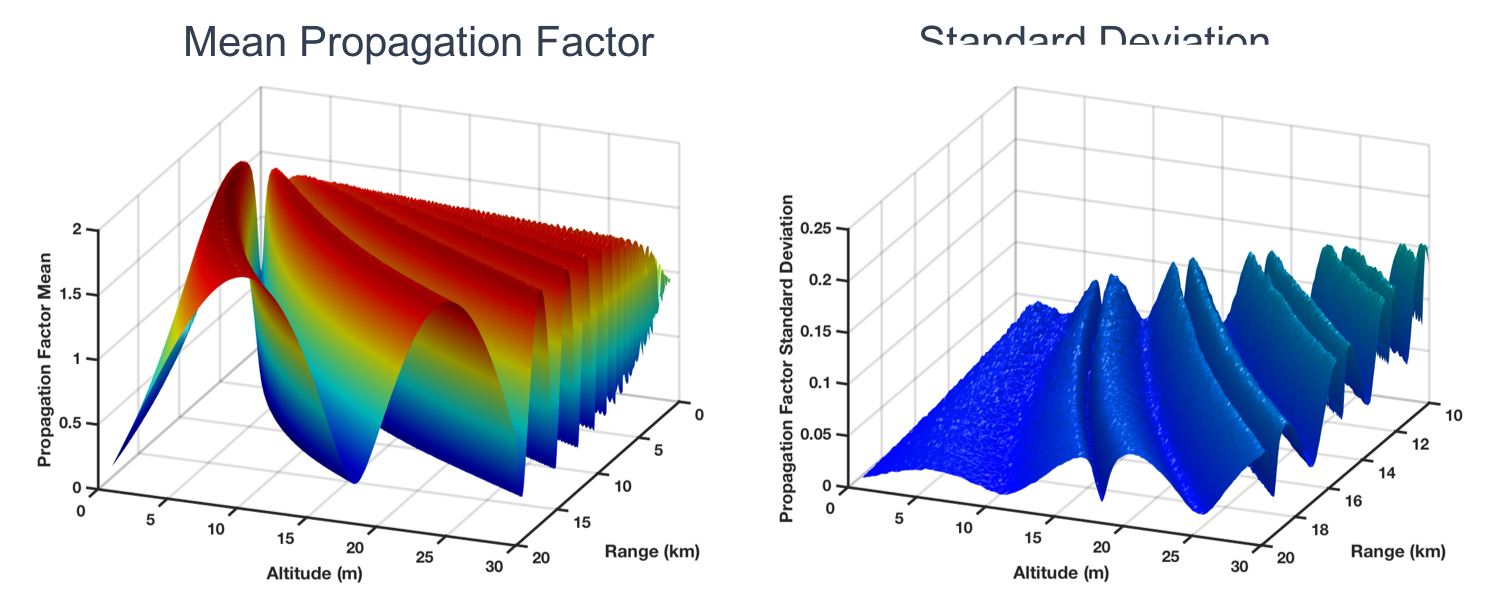
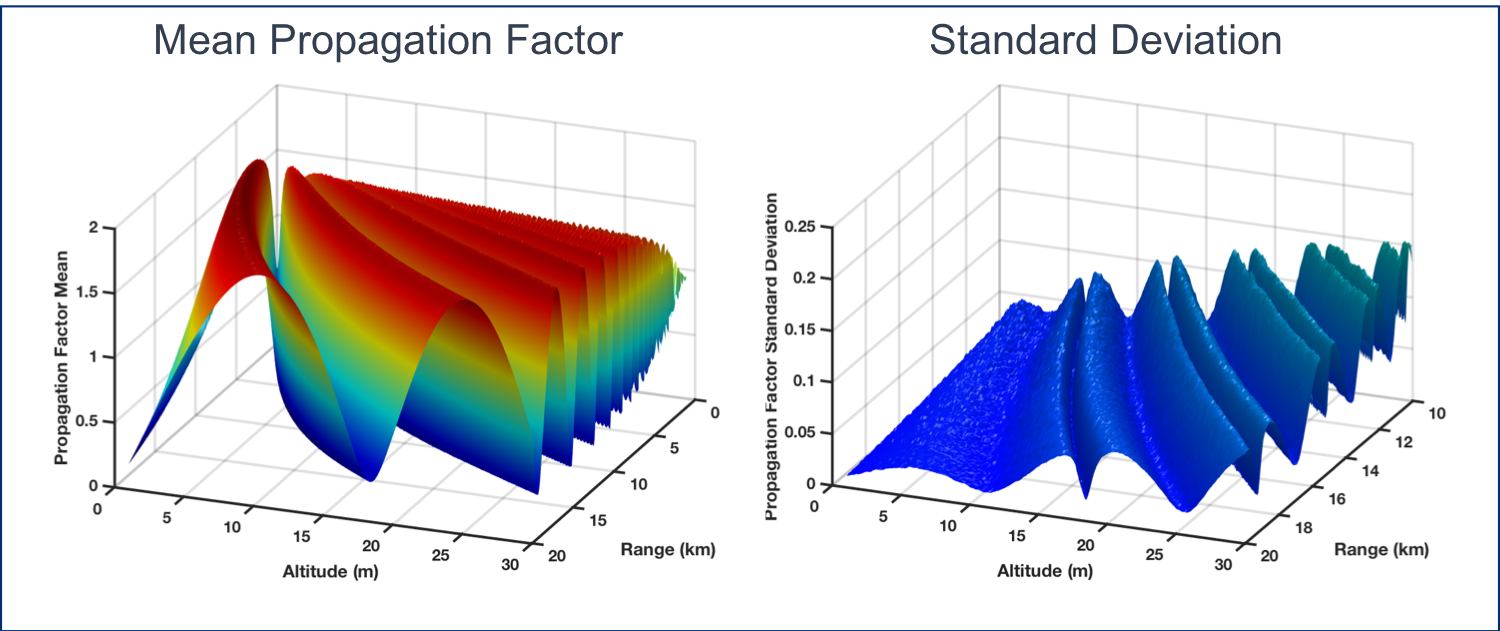
nearly final editing pass

diff --git a/src/amplitude_statistics.tex b/src/amplitude_statistics.tex
@@ -75,6 +75,8 @@ This equation matches the observation with $n\approx 10$ for the mean values and
 \end{figure}
 \renewcommand{\baselinestretch}{2} \small\normalsize
 
+In order to reduce the sampling constraints and run the Monte Carlo study in a reasonable amount of time, the temporal frequency of interest was changed from 35 GHz to 10 GHz.
+
 \subsection{Monte Carlo Run Methodology}
 The data set of propagation factors were generated by creating a random sea surface for a given wind speed and direction, and then numerically propagating using TEMPER. This sequence was repeated for 500 iterations with a different set of random variables for each sea surface.
 
@@ -179,7 +181,7 @@ The mean and standard deviation with a 5 m/s wind speed and a $0^\circ$ wind dir
 
 \begin{figure}[H]
   \begin{center}
-\includegraphics[width=4in]{../media/multistatic/std_atmos_results.png}
+\includegraphics[width=5.5in]{../media/multistatic/std_atmos_results.png}
   \end{center}
   \renewcommand{\baselinestretch}{1} \small\normalsize
   \begin{quote}
@@ -190,7 +192,7 @@ The mean and standard deviation with a 5 m/s wind speed and a $0^\circ$ wind dir
 
 \begin{figure}[H]
   \begin{center}
-\includegraphics[width=4in]{../media/multistatic/duct_results.png}
+\includegraphics[width=5.5in]{../media/multistatic/duct_results.png}
   \end{center}
   \renewcommand{\baselinestretch}{1} \small\normalsize
   \begin{quote}
@@ -199,7 +201,7 @@ The mean and standard deviation with a 5 m/s wind speed and a $0^\circ$ wind dir
 \end{figure}
 \renewcommand{\baselinestretch}{2} \small\normalsize
 
-In both of these cases, we see that the standard deviation has deep nulls that are co-aligned with nulls in the mean and shallower nulls that are co-aligned with peaks in the mean. These results make sense if we think of propagation of a bundle of rays; at the peaks and nulls in the mean, the rays are all either strongly coherent (peak) or strongly anti-coherent (null). At these extremes, there is little phase variation between the waves and less room for variation in received power.
+In both of these cases, we see that the standard deviation has deep nulls that are co-aligned with nulls in the mean and shallower nulls that are co-aligned with peaks in the mean. These results make sense if we think of propagation of a bundle of rays; at the peaks and nulls in the mean, the rays are all either strongly coherent (peak) or strongly anti-coherent (null). At these extremes, there is little phase variation between the waves and less room for variation in received power. This result also indicates that the standard deviation oscillates at twice the rate of the mean value.
 
 \subsection{Diffractive Phase Shift}
 Figure \ref{stat_fig:2zz} shows the mean propagation factor vs. altitude at a constant range (20 km) for various wind speeds and Figure \ref{stat_fig:2zzz} shows the mean propagation factor vs. altitude at a constant range (20 km) for various wind direction angles. These plots demonstrate there is a diffractive phase shift incurred when propagating over a numerical surface instead of a flat surface with the Miller-Brown approximation.
@@ -215,7 +217,7 @@ Figure \ref{stat_fig:2zz} shows the mean propagation factor vs. altitude at a co
 \end{figure}
 \renewcommand{\baselinestretch}{2} \small\normalsize
 
-As shown in Figure \ref{stat_fig:2zz}, increasing the wind speed reduces the amplitude of the mean propagation factor and shifts the phase of the multipath peaks and nulls upward in altitude. The amplitude reduction is expected because higher wind speeds create sea surfaces with more energy which turn means less RF energy is reflected in the forward direction.
+As shown in Figure \ref{stat_fig:2zz}, increasing the wind speed reduces the amplitude of the mean propagation factor and shifts the phase of the multipath peaks and nulls upward in altitude. The amplitude reduction is expected because higher wind speeds create sea surfaces with more energy which in turn means less RF energy is reflected in the forward direction.
 
 \begin{figure}[H]
   \begin{center}
@@ -233,9 +235,9 @@ As shown in Figure \ref{stat_fig:2zzz}, decreasing the wind direction also shift
 \subsection{PDF Fitting Results}
 Propagation over the open ocean should result in a system with fairly high losses, so we expect the PDFs to be normally distributed \cite{yeh_first_principles} \cite{yeh_fading}. 
 
+\subsubsection{Example Fitting Metrics}
 Figure \ref{stat_fig:4} shows the propagation factor fit at constant range (20 km) at 10 m and 30 m altitude to demonstrate fitting around both a multipath peak and a multipath null. The standard deviation in both cases shown is identical ($\sigma = 0.176$) and in general is very similar for fits made at a constant range but different altitudes.
 
-\subsubsection{Example Fitting Metrics}
 \begin{figure}[H]
   \begin{center}
 \includegraphics[width=4in]{../media/statistics/constant_range_fit.png}
@@ -247,7 +249,7 @@ Figure \ref{stat_fig:4} shows the propagation factor fit at constant range (20 k
 \end{figure}
 \renewcommand{\baselinestretch}{2} \small\normalsize
 
-Figure \ref{stat_fig:5} shows the propagation factor fit at constant altitude (10 m) at 10 km and 15 km range, again to demonstrate fitting around both a multipath peak and a multipath null. The standard deviation is no longer the same ($\sigma_{10} = 0.223$ while $\sigma_{15} = 0.188$). In general, the standard deviation is not similar for fits made at a constant altitude but different ranges.
+Figure \ref{stat_fig:5} shows the propagation factor fit at constant altitude (10 m) at 10 km and 15 km range, again to demonstrate fitting around both a multipath peak and a multipath null. The standard deviation is no longer the same ($\sigma_{10} = 0.223$ while $\sigma_{15} = 0.188$). In general, the standard deviation is not similar for fits made at a constant altitude but different ranges. This indicates range has a stronger impact than altitude.
 
 \begin{figure}[H]
   \begin{center}

diff --git a/src/random_matrix_theory.tex b/src/random_matrix_theory.tex
@@ -7,12 +7,23 @@ Since then, RMT has become extremely useful in characterizing chaotic systems th
 \subsection{Wave Chaotic Systems}
 The wave equation is linear, so solutions can not be chaotic. However, in the semi-classical limit where the wavelength is much smaller than the characteristic length scale ($\lambda << L$), these solutions can be described by rays with chaotic trajectories. This is also known as the random plane wave hypothesis where we can treat the chaotic propagation problem as a random superposition of plane waves.
 
-For the purposes of this work, the propagation has Time Reversal Symmetry (TRS), so the probability distribution of the Hamiltonian will be invariant under orthogonal transformations, $P(H) = P(O^THO)$ for any orthogonal matrix $O$ \cite{ott_chaos}. This is referred to as the Gaussian Orthogonal Ensemble (GOE) case. Because the matrix $O$ is orthogonal, the elements of the random matrix will be real, independent, and identically distributed Gaussian random variables with the variance of the diagonal elements equal to twice the variance of the off-diagonal elements.
+For the purposes of this work, the propagation has Time Reversal Symmetry (TRS), so the probability distribution of the Hamiltonian will be invariant under orthogonal transformations, $P(H) = P(O^THO)$ for any orthogonal matrix $O$ \cite{ott_chaos}. This is referred to as the Gaussian Orthogonal Ensemble (GOE) case. Because the matrix $O$ is orthogonal, the elements of the random matrix will be real, independent, and identically distributed (IID) Gaussian random variables with the standard deviation of the diagonal elements equal to twice the standard deviation of the off-diagonal elements.
+
+A simple method to generate a random matrix, $\textbf{M}$, following a GOE distribution is to first generate a matrix, $\textbf{A}$, whose elements are IID zero mean Gaussian random variables with unit standard deviation. The matrix $\textbf{M}$ is then given by
+
+\begin{equation}
+\textbf{M} = \frac{1}{2}\left(\textbf{A} + \textbf{A}^T \right)
+\label{rmt_eq:000}
+\end{equation}
+\renewcommand{\baselinestretch}{2} \small\normalsize
 
 Wave chaotic systems have both universal and system specific properties. The system specific features are due to the short orbit trajectories (the paths with few bounces between the ports) and the universal features are due to the chaotic nature of the system itself \cite{bohigas}. RMT works extremely well at predicting the statistical properties of the universal fluctuations; however, short orbit trajectories have a significant impact on the overall scattering statistics and should be included \cite{hart_so} \cite{yeh_universal}. One such model that includes both universal and system specific features is the Random Coupling Model (RCM), which normalizes the impedance matrix by the system specific impedance to separate the universal and system specific features  \cite{zheng_single} \cite{zheng_multiple} \cite{hemmady_review} \cite{gradoni_review}.
 
+One of the primary contributions of the RCM is that it allows the overlap integral which describes the interaction between the eigenmodes and current shape profile to be represented through the radiation impedance of an antenna coupled to the port \cite{hart_time_domain} \cite{zheng_single}.
+
 \subsection{Multi-static Configuration}
-The scattering matrix, $S$, contains all the information for the various propagation paths through the system with each transmitter and receiver considered as a port. This matrix then determines the relationship between the output voltages, $\textbf{V}^o$, and the input voltages, $\textbf{V}^i$ \cite{pozar_microwave}.
+The scattering matrix, $\textbf{S}$, contains all the information for the various propagation paths through the system with each transmitter and receiver considered as a port. This matrix then determines the relationship between the output voltages, $\textbf{V}^o$, and the input voltages, $\textbf{V}^i$ \cite{pozar_microwave}.
+
 \begin{equation}
 \textbf{V}^o = \textbf{S} \textbf{V}^i
 \label{rmt_eq:0}
@@ -56,5 +67,3 @@ The scattering matrix approach captures the universal fluctuations from the unde
 \end{equation}
 \renewcommand{\baselinestretch}{2} \small\normalsize
 Here $\textbf{Z}_o$ is a diagonal matrix that captures the characteristic impedance of transmission lines connected to the ports.
-
-One of the primary contributions of the RCM is that it allows the overlap integral which describes the interaction between the eigenmodes and current shape profile to be represented through the radiation impedance of an antenna coupled to the port \cite{hart_time_domain} \cite{zheng_single}.

diff --git a/src/RF_environmental_impacts.tex b/src/RF_environmental_impacts.tex
@@ -68,7 +68,7 @@ The grazing angle, $\chi$, is the angle from the local horizontal plane at the t
 In the flat earth case, the grazing and depression angles are equal. The curvature of the earth changes the local tangent plane reference, so they are not equal in the case of a spherical or ellipsoidal earth.
   
 \subsubsection{RADAR Horizon}
-The curvature of the earth puts an upper limit on the distance an electromagnetic wave can travel before intercepting the earth. The range to the horizon, $R_h$, is given by Equation \ref{env_eq:3}. Slant ranges greater than this distance will be clipped by the earth and not reach the target unless anomalous propagation conditions (ducting) are present.
+The curvature of the earth puts an upper limit on the distance an electromagnetic wave can travel before intercepting the earth. The range to the horizon, $R_h$, is given by Equation \ref{env_eq:3}. Slant ranges greater than this distance will be clipped by the earth and not reach the target unless anomalous propagation conditions (such as ducting) are present.
 
   \begin{equation}
   \label{env_eq:3}
@@ -177,10 +177,10 @@ The smooth reflection coefficient depends on the polarization of the incident wa
 The total reflection coefficient, $\Gamma_t$ is then the product of the rough and smooth reflection coefficients, $\Gamma_t = \rho\Gamma_h$ or $\Gamma_t = \rho\Gamma_v$.
 
 \subsection{Clutter}
-Clutter is the backscattered signal from the sea surface and its signal strength can be found from the RADAR range equation using the product of the backscatter cross section, $\sigma_M^0$ and the clutter cell area, $A_c$ as the target RCS. The area will depend on whether the signal is beam limited or pulse limited. The Signal to Clutter Ratio (SCR) is the ratio of the power received from the signal to the power received from clutter and is a good indicator of overall performance.
+Clutter is the backscattered signal from the sea surface and its signal strength can be found from the RADAR range equation using the product of the backscatter cross section, $\sigma_M^0$, and the clutter cell area, $A_c$, as the target RCS. The area will depend on whether the signal is beam limited or pulse limited. The Signal to Clutter Ratio (SCR) is the ratio of the power received from the signal to the power received from clutter and is a good indicator of overall performance.
 
 \subsubsection{NRL Model for $\sigma_M^0$}
-There are many models for estimating the backscatter cross section at various sea states \cite{blake_radar} \cite{richards_radar} \cite{nathanson_radar}. In 2012, an empirical model was developed by NRL that minimized differences with the extensive existing experimental databases \cite{gregers-hansen_clutter} and which will be presented here. Equation \ref{env_eq:7a} provides the model for $\sigma^0$ where $f$ is the radar frequency in GHz, $SS$ is the sea state, and $\Psi$ is the grazing angle in degrees. Table \ref{env_tab:0} lists the various constants used in the equation for both horizontal and vertical polarization.
+There are many models for estimating the backscatter cross section at various sea states \cite{blake_radar} \cite{richards_radar} \cite{nathanson_radar}. In 2012, an empirical model was developed by NRL that minimized differences with the extensive existing experimental databases \cite{gregers-hansen_clutter} and which will be presented here. Equation \ref{env_eq:7a} provides the model for $\sigma_M^0$ where $f$ is the radar frequency in GHz, $SS$ is the sea state, and $\Psi$ is the grazing angle in degrees. Table \ref{env_tab:0} lists the various constants used in the equation for both horizontal and vertical polarization.
 
 \begin{equation}
 \begin{aligned}

diff --git a/src/introduction.tex b/src/introduction.tex
@@ -4,7 +4,7 @@ Analysis of RADAR systems in maritime environments is complicated by the fact th
 When we look at cases where the transmitter and receiver are not colocated, we have a bistatic configuration and analyzing performance becomes even more difficult \cite{willis_bistatic}. We cannot leverate reciprocity as the paths are no longer constant, and the effects of multipath and clutter are often skewed due to geometric differences.  In addition, the receiver observes the target from a different aspect angle than it was illuminated with, resulting in a different radiation pattern. With multiple receivers or transmitters, the configuration is termed multistatic as there are multiple bistatic elements.
 
 \subsection{Objective}
-The primary objective of this work is to evaluate the performance of multistatic Radio Frequency (RF) sensor networks through 2 aims: 1) demonstrate that Random Matrix Theory (RMT) allows prediction of the signal statistics and 2) investigate contributions from multipath and clutter to characterize potential engagement geometries. 
+The primary objective of this work is to evaluate the performance of multistatic Radio Frequency (RF) sensor networks through 2 aims: 1) demonstrate that Random Matrix Theory (RMT) allows prediction of the signal statistics; and 2) investigate contributions from multipath and clutter to characterize potential engagement geometries. 
 
 Aim 1 will be accomplished in three phases. First, the ocean surface will be modeled to ensure that the appropriate sea wave statistics are captured in both the down range and cross range directions. Second, a Monte Carlo study will be performed to generate signal statistics. This study will be executed by generating a series of sea surfaces and then numerically propagating a signal through a Parabolic Wave Equation (PWE) solver. Finally, RMT will be used to generate a statistical model that encompasses the results.
 
@@ -25,13 +25,13 @@ An example multistatic RF sensor network in a maritime environment is shown in F
 \renewcommand{\baselinestretch}{2} \small\normalsize
 
 \subsubsection{Sources of Uncertainty}
-There are 3 primary sources for randomness in propagating through a maritime environment: the configuration of the target ship, the refractivity of the atmosphere, and the sea surface.
+There are 3 primary sources for randomness in propagating through a maritime environment: 1) the configuration of the target ship; 2) the refractivity of the atmosphere; and 3) the sea surface.
 
 The configuration of the target ship drives the RADAR Cross Section (RCS). As shown in Figure \ref{rmt_fig:1}, the RCS signature is complicated and highly aspect dependent. 
 
 \begin{figure}[H]
   \begin{center}
-\includegraphics[width=4in]{../media/multistatic/shipconfig.png}
+\includegraphics[width=4.5in]{../media/multistatic/shipconfig.png}
   \end{center}
   \renewcommand{\baselinestretch}{1} \small\normalsize
   \begin{quote}

diff --git a/src/bistatic_clutter.tex b/src/bistatic_clutter.tex
@@ -1,9 +1,9 @@
 \section{Bistatic Clutter Impacts}
 
-As previously discussed, the Signal to Clutter Ratio (SCR) is a valuable metric that determines the observability of a target against the background. Clutter is very well understood for monostatic geometries but still an active area of research for bistatic geometries.
+As previously discussed, the SCR is a valuable metric that determines the observability of a target against the background. Clutter is very well understood for monostatic geometries but still an active area of research for bistatic geometries.
 
 \subsection {Bistatic Clutter Estimation}
-Because the RCS varies by target and both signal and clutter are captured under the same conditions, we can focus on the Clutter Cross Section (CCS) to get a relative sense of how background clutter relates to bistatic RADAR.
+Because the RCS varies by target and both signal and clutter are captured under the same conditions, we can focus on the clutter cross section to get a relative sense of how background clutter relates to bistatic RADAR.
 
 We can use Long's model \cite{griffiths_bistatic_clutter} to determine the cross range clutter backscatter term, $\sigma_{Mx}^0$. This term is dependent on wind speed, $v_w$ and wind direction, $\phi_w$.
 \begin{equation}
@@ -19,7 +19,7 @@ We can then use $\sigma_{Mx}^0$ to find the bistatic clutter backscatter strengt
 \end{equation}
 \renewcommand{\baselinestretch}{2} \small\normalsize
 
-Here, $\theta_1$ is the grazing angle relative to the receiver, $\theta_2$ is the grazing angle relative to the transmitter, $phi$ is the azimuth angle between the receiver and transmitter, $\sigma_M^0$ is the monostatic clutter backscatter strength. In addition, $k$, $m$, and $n$ are model "fudge-factors" that must all be positive. The $\cos(\phi)$ term captures the downrange component and the $\sin(\phi)$ term captures the cross range component.
+Here, $\theta_1$ is the grazing angle relative to the receiver, $\theta_2$ is the grazing angle relative to the transmitter, $\phi$ is the azimuth angle between the receiver and transmitter, $\sigma_M^0$ is the monostatic clutter backscatter strength. In addition, $k$, $m$, and $n$ are model "fudge-factors" that must all be positive. The $\cos(\phi)$ term captures the downrange component and the $\sin(\phi)$ term captures the cross range component.
 
 The NRL model for downrange clutter backscatter averages the backscatter responses for all wind directions and therefore effects of wind direction are not described in the model. Like the NRL model, Long's model for crossrange clutter backscatter is based on empirical data relating sea clutter to polarization and wind direction, however Long's model averages over a range of sea states rather than resolving it in the model. As a result, the inherent variance in the combined model is handled by fudge factors to adapt to environments of a given sea state and wind direction.
 

diff --git a/src/prop_model.tex b/src/prop_model.tex
@@ -26,7 +26,7 @@ F_p =e^{-jk_oL_1}+\Gamma_1 e^{-jk_oL_m} \sum_{l=-\infty}^{\infty}J_l(\sigma)e^{j
 \end{equation}
 \renewcommand{\baselinestretch}{2} \small\normalsize
 
-The propagation factors for the cylindrical wave case are given as \cite{frazier_green}:
+\noindent The propagation factors for the cylindrical wave case are given as \cite{frazier_green}:
 
 \begin{equation}
 F_p =e^{-jk_oL_1}+\Gamma_1\sqrt{\frac{L_1}{L_m}} e^{-jk_oL_m} \sum_{l=-\infty}^{\infty}J_l(\sigma)e^{j\phi_l}
@@ -34,7 +34,7 @@ F_p =e^{-jk_oL_1}+\Gamma_1\sqrt{\frac{L_1}{L_m}} e^{-jk_oL_m} \sum_{l=-\infty}^{
 \end{equation}
 \renewcommand{\baselinestretch}{2} \small\normalsize
 
-The intermediate variables for Equations \ref{prop_eq:1} and \ref{prop_eq:2} are given in Equation \ref{prop_eq:3}.
+\noindent The intermediate variables for Equations \ref{prop_eq:1} and \ref{prop_eq:2} are given in Equation \ref{prop_eq:3}.
 
 \begin{equation}
 \begin{gathered}
@@ -48,7 +48,7 @@ L_0''=\frac{(h_1+h_2)^4}{h_1h_2L^3} \\
 \renewcommand{\baselinestretch}{2} \small\normalsize
 
 \subsection{Numerical Approach}
-The analytical approach simplifies the problem by treating diffraction from the sea surface in plane so that integration is done downrange. This requires additional approximations and constraints, so a more accurate is to integrate in altitude and march the solution in range. This approach is well suited to the Fourier Split-Step technique given by \cite{frazier_green} 
+The analytical approach simplifies the problem by treating diffraction from the sea surface in plane so that integration is done downrange. This requires additional approximations and constraints, so a more accurate method is to integrate in altitude and march the solution in range. This approach is well suited to the Fourier Split-Step technique given by \cite{frazier_green} as
 
 \begin{equation}
 A(x,z) = \exp\left[-j\frac{k_pm}{2}\Delta x\right]\mathcal{F}^{-1}\left\{\exp\left[j\frac{k_z^2}{2k_p}\Delta x \right]\hat{A}(x_o,k_z) \right\}

diff --git a/src/Abbreviations.tex b/src/Abbreviations.tex
@@ -6,10 +6,10 @@
 \small\normalsize
 
 \begin{supertabular}{ll}
-CCS & Clutter Cross Section \\
 CPI & Coherent Processing Interval \\
 GOE & Gaussian Orthogonal Ensemble \\
 PDF & Probability Density Function \\
+IID & Independent and Identically Distributed \\
 PWE & Parabolic Wave Equation \\
 RADAR & Radio Detection And Ranging\\
 RCS & RADAR Cross Section \\
@@ -18,6 +18,7 @@ RCM & Random Coupling Model \\
 RMT & Random Matrix Theory \\
 SCR & Signal to Clutter Ratio \\
 SNR & Signal to Noise Ratio\\
+SS & Sea State \\
 TEMPER & Tropospheric Electromagnetic Parabolic Equation Routine \\
 TRS & Time Reversal Symmetry \\
 WGS & World Geodetic System \\

diff --git a/src/geometric_derivations.tex b/src/geometric_derivations.tex
@@ -1,5 +1,5 @@
 \section{Geometric Derivations}
-This appendix derives many of the geometric results provided earlier.
+This appendix derives several of the geometric results provided earlier.
 
 \subsection{Grazing Angle Derivation}
 The derivation of the grazing angle, $\chi$, starts by applying the Law of Cosines to the 4/3 earth geometry ($r_e' = 4/3r_e$). For improved locality accuracy, $r_e$ can be replaced by the local radius of curvature of the earth from the WGS-84 model.

diff --git a/src/conclusions.tex b/src/conclusions.tex
@@ -1,5 +1,6 @@
 \renewcommand{\baselinestretch}{2} \small\normalsize
 \section{Conclusions}
+As described in detail below, both Aims were addressed through this work.
 
 \subsection{Aim 1}
 The results of the Monte Carlo study indicate that RMT allows prediction of the signal statistics in a multi-static configuration, satisfying Aim 1. However, there is still work required to make this a useful technique. 
